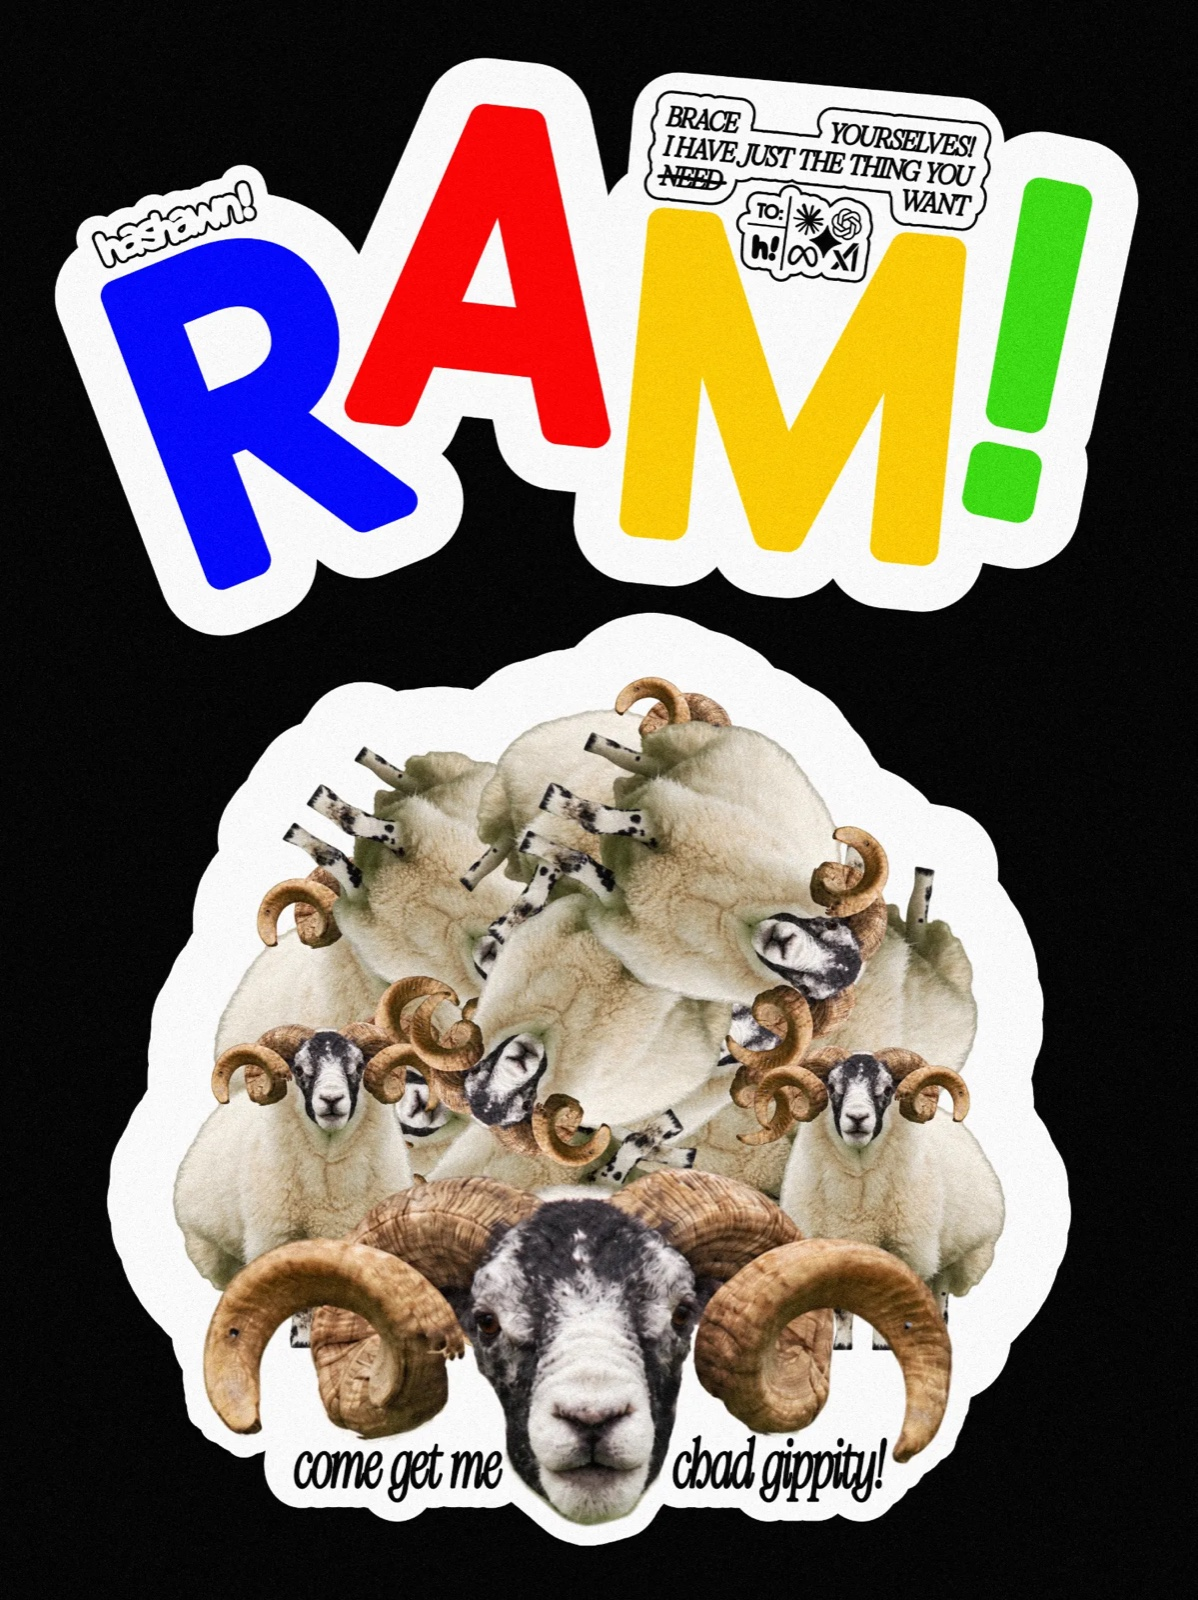
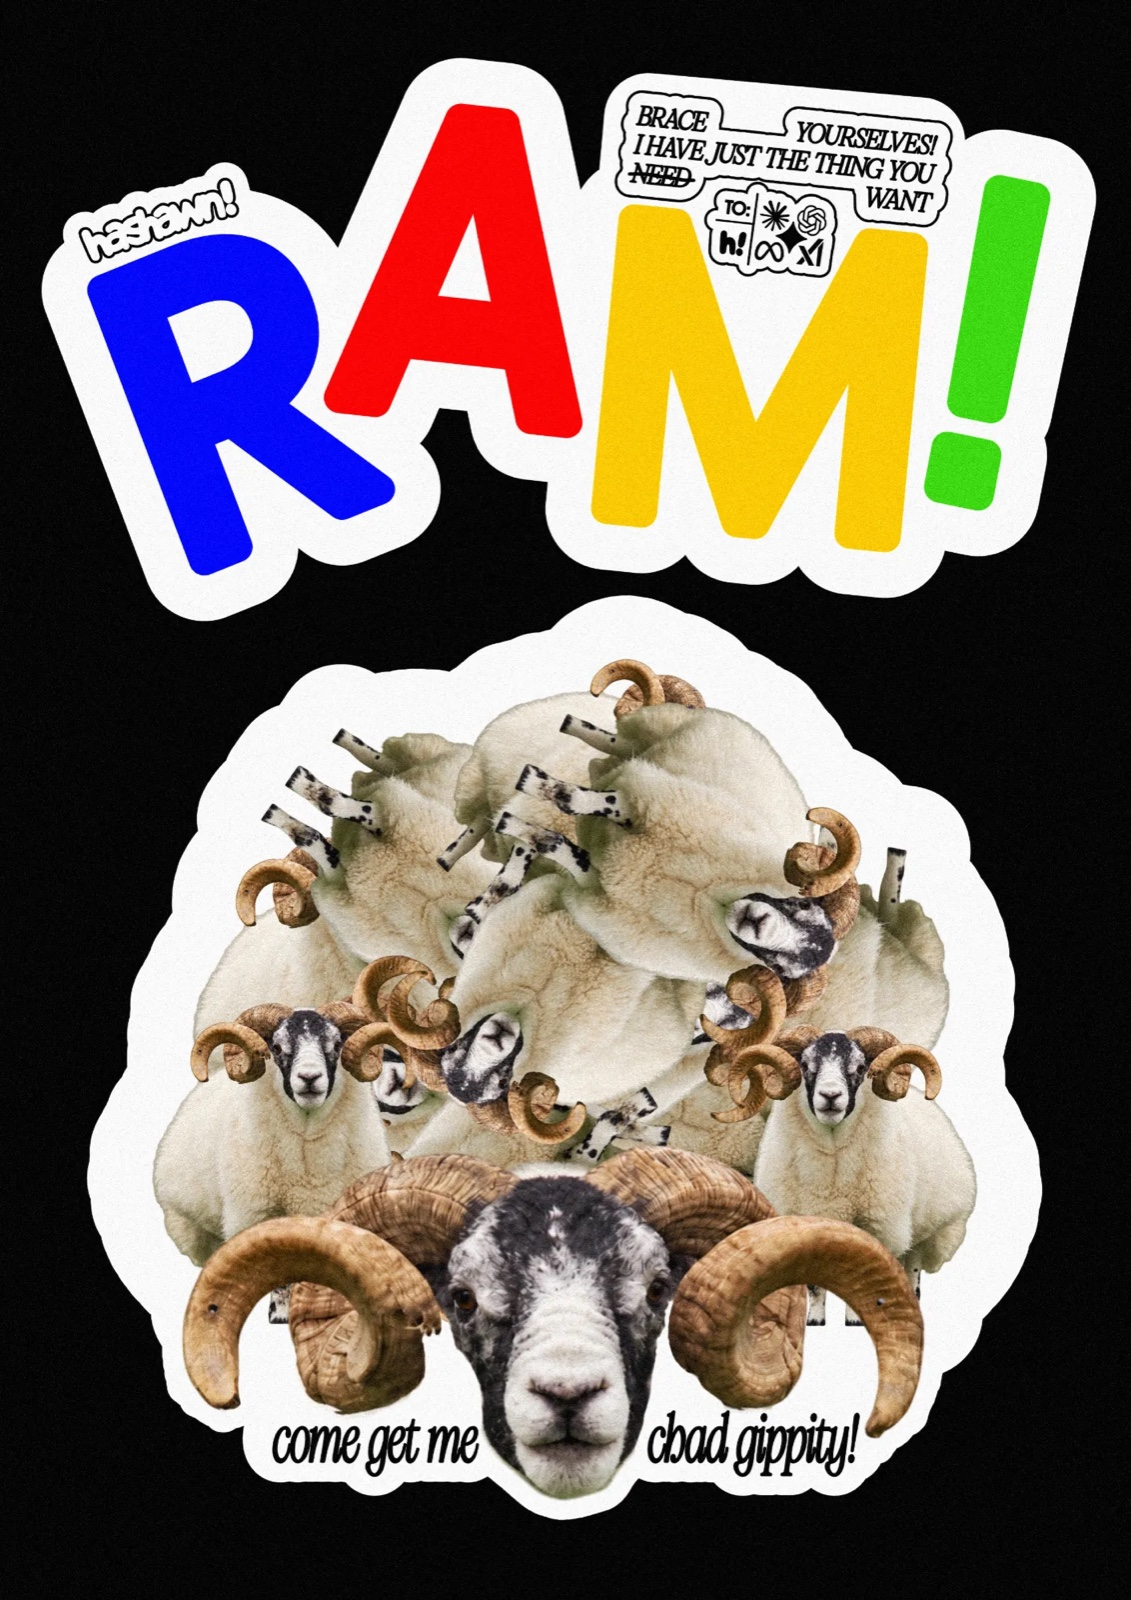
RAM! at the new ratio

diff --git a/index.html b/index.html
@@ -38,7 +38,7 @@
       <img src="assets/harvest-thumb.jpg" alt="Harvest Everything, a doodle poster" width="905" height="1280" loading="lazy">
     </a>
     <a class="poster" href="assets/ram.webp" data-id="ram" data-title="RAM!" data-line="the sheep are real. the threat is real. come get me chad gippity.">
-      <img src="assets/ram-thumb.jpg" alt="RAM!, a sticker poster of a pile of rams" width="1198" height="1600" loading="lazy">
+      <img src="assets/ram-thumb.jpg" alt="RAM!, a sticker poster of a pile of rams" width="1131" height="1600" loading="lazy">
     </a>
   </section>
 </main>
